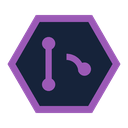
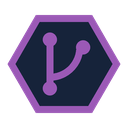
v2 trained on the AMD GPU, and the merge glyph that was drawing a fork
150 epochs in 2.26 hours on the RX 7800 XT through WSL2 and ROCm. The export is
structurally identical to v1 -- images [1,3,960,960] -> output0 [1,5,18900],
10.3 MB -- so it drops into the C++ analyzer with nothing to change.

Measured head to head on the same human-labelled validation split:

              precision   recall   mAP50   mAP50-95
    v1          0.884     0.819    0.906     0.600
    v2          0.863     0.864    0.902     0.595

mAP is a wash, four thousandths apart, which is noise. Recall is up 4.5 points,
which is not, and recall is exactly what "it did not detect a few robots" is a
complaint about. Precision gave up 2 points to buy it.

That split is entirely 2023-24 Roboflow data, so it cannot show the thing v2 was
actually given -- 2026 broadcast footage. On 72 real 2026 frames v2 emits fewer
detections (249 vs 298) at markedly higher confidence (0.717 vs 0.566). Fewer and
more certain, alongside better recall on labelled data, reads as v1 having emitted
marginal boxes that v2 no longer does. Checked by eye rather than inferred: on a
sample frame v2 found four robots where v1 found three.

Also fixes :tengen_merged:, which was drawing a fork rather than a merge -- the
arc swept outward and dead-ended in empty space. The arc has to be centred ON the
trunk at the branch height so a 0-to-90-degree sweep lands back on the trunk. It
was only obvious blown up 3x, which is the argument for looking at generated art
at size rather than trusting the code.

Changed region(s): [[0.3125, 0.25, 0.7188, 0.75]]

diff --git a/brand/make_emoji.py b/brand/make_emoji.py
@@ -128,14 +128,26 @@ def _dots(d, cx, cy, s, colour):
 
 
 def _merge(d, cx, cy, s, colour):
-    w = int(s * 0.05)
-    r = s * 0.05
-    d.line([(cx - s * 0.12, cy - s * 0.16), (cx - s * 0.12, cy + s * 0.16)], fill=colour, width=w)
-    d.arc([cx - s * 0.12, cy - s * 0.08, cx + s * 0.16, cy + s * 0.2], 270, 360,
-          fill=colour, width=w)
-    for px, py in ((cx - s * 0.12, cy - s * 0.16), (cx - s * 0.12, cy + s * 0.16),
-                   (cx + s * 0.16, cy + s * 0.04)):
-        d.ellipse([px - r, py - r, px + r, py + r], fill=colour)
+    """A branch rejoining the trunk.
+
+    The first attempt drew the arc sweeping outward, so the branch curved away and dead-ended in
+    empty space -- a fork, not a merge, and visibly wrong once blown up. The arc has to be centred
+    ON the trunk at the branch's height, so sweeping from 0 to 90 degrees lands it back on the
+    trunk line rather than beside it.
+    """
+    w = int(s * 0.055)
+    r_dot = s * 0.055
+    trunk_x = cx - s * 0.11
+    top_y, bottom_y = cy - s * 0.19, cy + s * 0.19
+    branch_x, branch_y = cx + s * 0.15, cy - s * 0.13
+    radius = branch_x - trunk_x
+
+    d.line([(trunk_x, top_y), (trunk_x, bottom_y)], fill=colour, width=w)
+    # Centre on the trunk, at the branch's height: 0deg is the branch, 90deg is the trunk below.
+    d.arc([trunk_x - radius, branch_y - radius, trunk_x + radius, branch_y + radius],
+          0, 90, fill=colour, width=w)
+    for px, py in ((trunk_x, top_y), (trunk_x, bottom_y), (branch_x, branch_y)):
+        d.ellipse([px - r_dot, py - r_dot, px + r_dot, py + r_dot], fill=colour)
 
 
 def emoji_bbox(size=128):

diff --git a/brand/emoji/third-party/ATTRIBUTION.md b/brand/emoji/third-party/ATTRIBUTION.md
@@ -1,0 +1,33 @@
+# Third-party emoji
+
+Downloaded from emoji.gg, which exists to share emoji for Discord servers.
+Credited here because the creators are named on that site and deserve it.
+
+- `:ping:` — from the **discord-bot-pack** pack, via emoji.gg
+- `:utilities:` — from the **discord-bot-pack** pack, via emoji.gg
+- `:database:` — from the **discord-bot-pack** pack, via emoji.gg
+- `:stats_icon_white:` — from the **discord-bot-pack** pack, via emoji.gg
+- `:integrations_webhooks:` — from the **discord-bot-pack** pack, via emoji.gg
+- `:moderation:` — from the **discord-bot-pack** pack, via emoji.gg
+- `:settings_white:` — from the **discord-bot-pack** pack, via emoji.gg
+- `:bell:` — from the **discord-bot-pack** pack, via emoji.gg
+- `:badly_drawn_pin_icon:` — from the **badly-drawn-discord** pack, via emoji.gg
+- `:badly_drawn_news_icon:` — from the **badly-drawn-discord** pack, via emoji.gg
+- `:badly_drawn_reaction_icon:` — from the **badly-drawn-discord** pack, via emoji.gg
+- `:badly_drawn_notification_icon:` — from the **badly-drawn-discord** pack, via emoji.gg
+- `:badly_drawn_online_status:` — from the **badly-drawn-discord** pack, via emoji.gg
+- `:badly_drawn_offline_status:` — from the **badly-drawn-discord** pack, via emoji.gg
+- `:badly_drawn_reply_icon:` — from the **badly-drawn-discord** pack, via emoji.gg
+- `:badly_drawn_attachment_icon:` — from the **badly-drawn-discord** pack, via emoji.gg
+- `:blobhyperthink:` — from the **blob-pack-1** pack, via emoji.gg
+- `:blobmuscles:` — from the **blob-pack-1** pack, via emoji.gg
+- `:blobninja:` — from the **blob-pack-1** pack, via emoji.gg
+- `:blobnomcookie:` — from the **blob-pack-1** pack, via emoji.gg
+- `:blobevil:` — from the **blob-pack-1** pack, via emoji.gg
+- `:duckyes:` — from the **duck-pack-1** pack, via emoji.gg
+- `:duckno:` — from the **duck-pack-1** pack, via emoji.gg
+- `:duckhearts:` — from the **duck-pack-1** pack, via emoji.gg
+- `:duckpout:` — from the **duck-pack-1** pack, via emoji.gg
+- `:duckshook:` — from the **duck-pack-1** pack, via emoji.gg
+- `:yippee:` — from the **cats** pack, via emoji.gg
+- `:skillissue:` — from the **cats** pack, via emoji.gg
